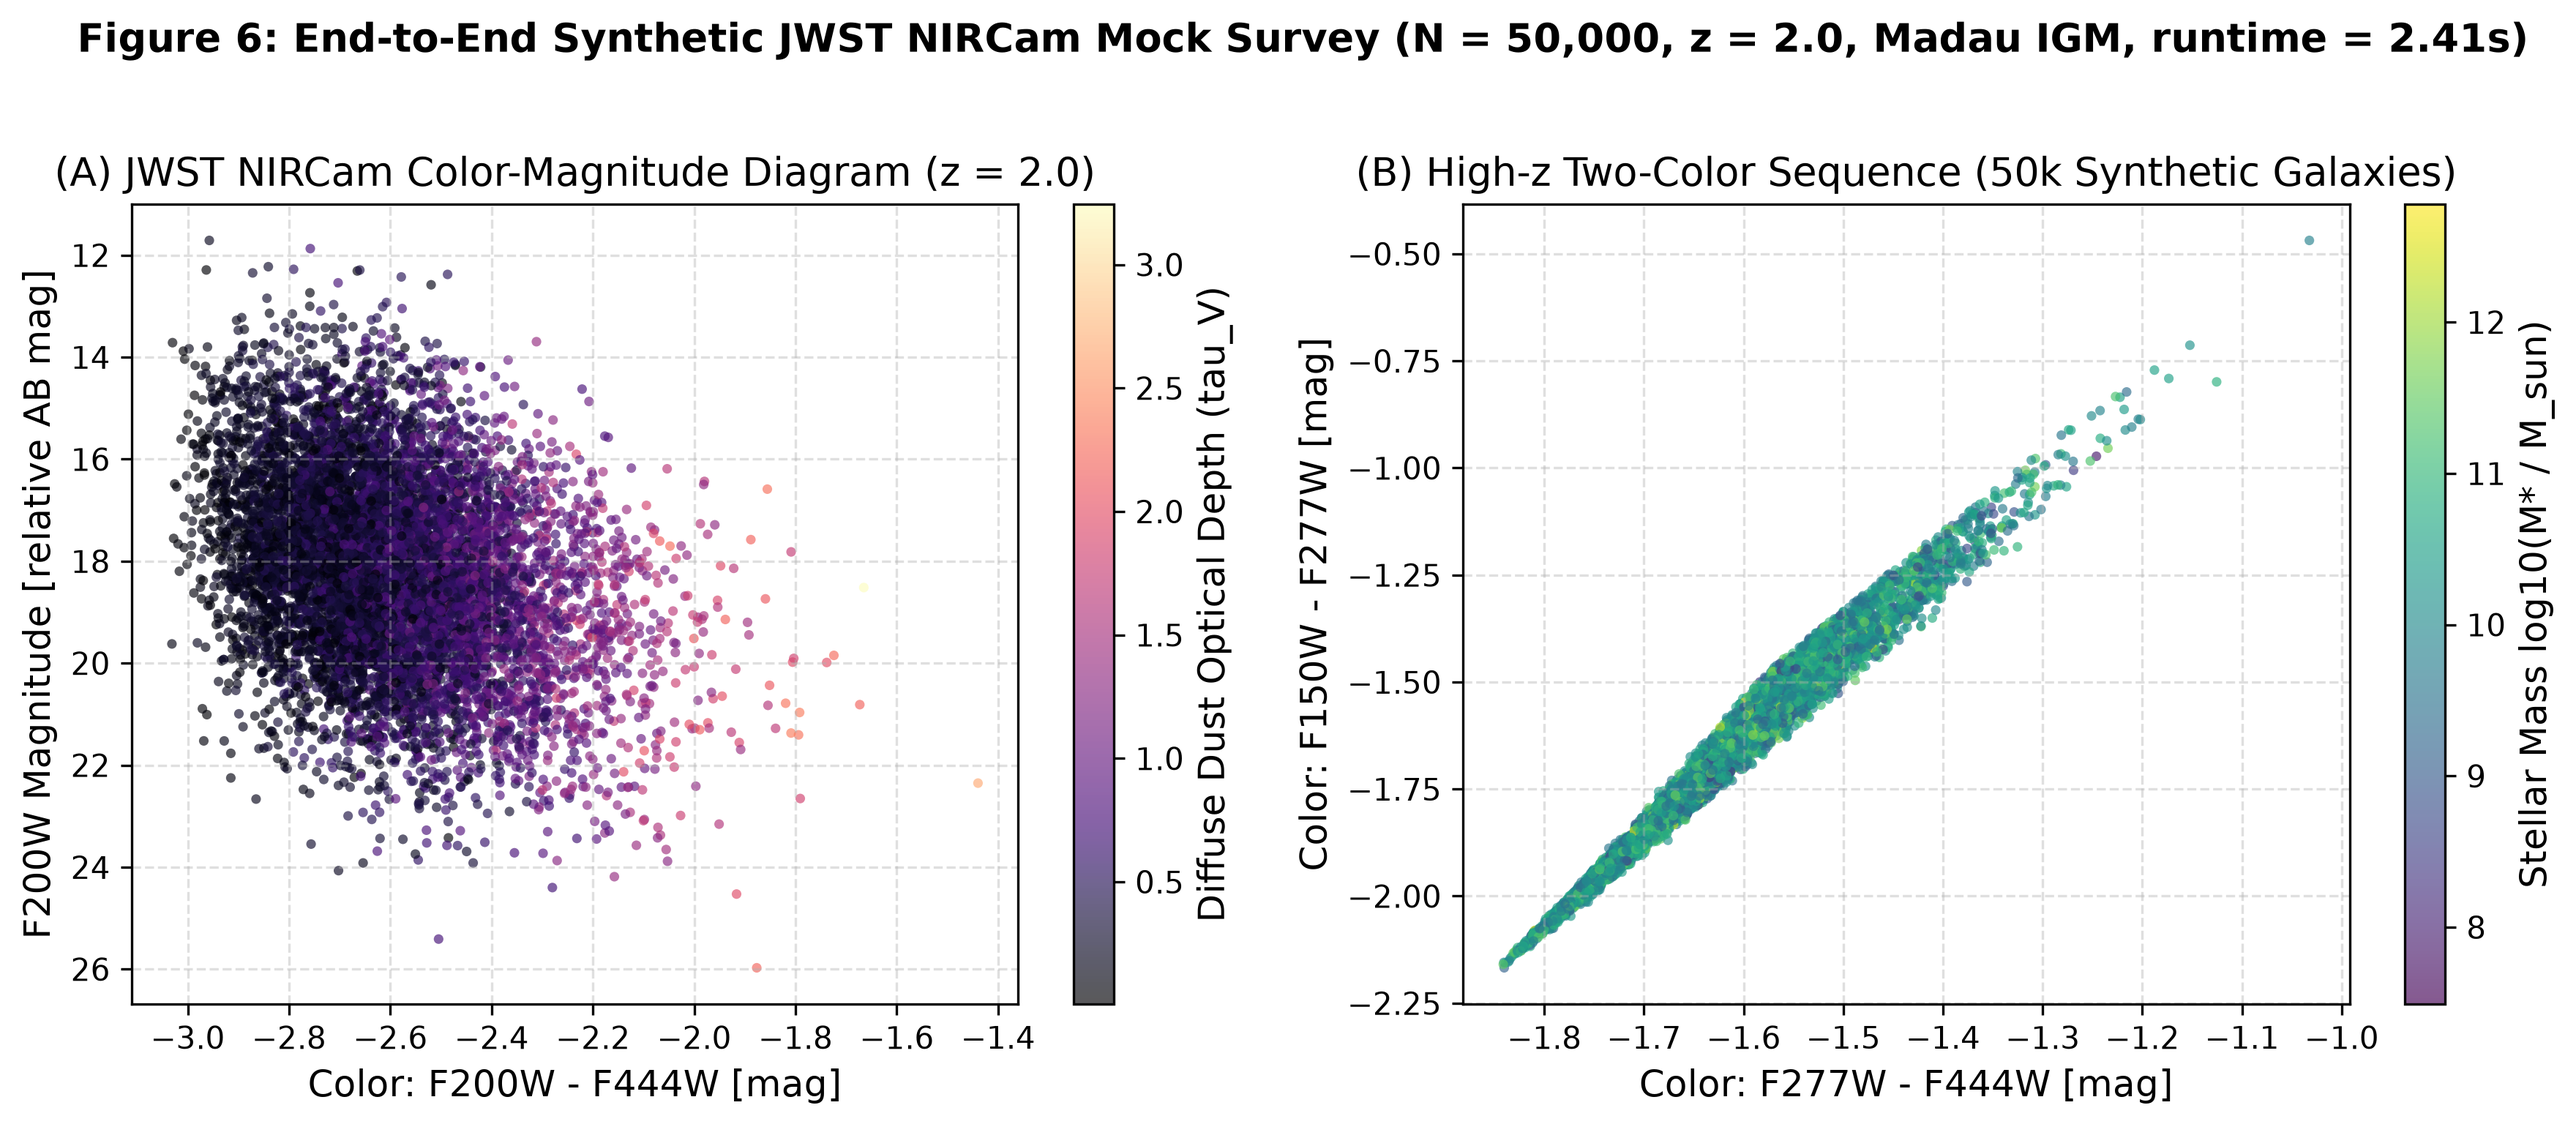
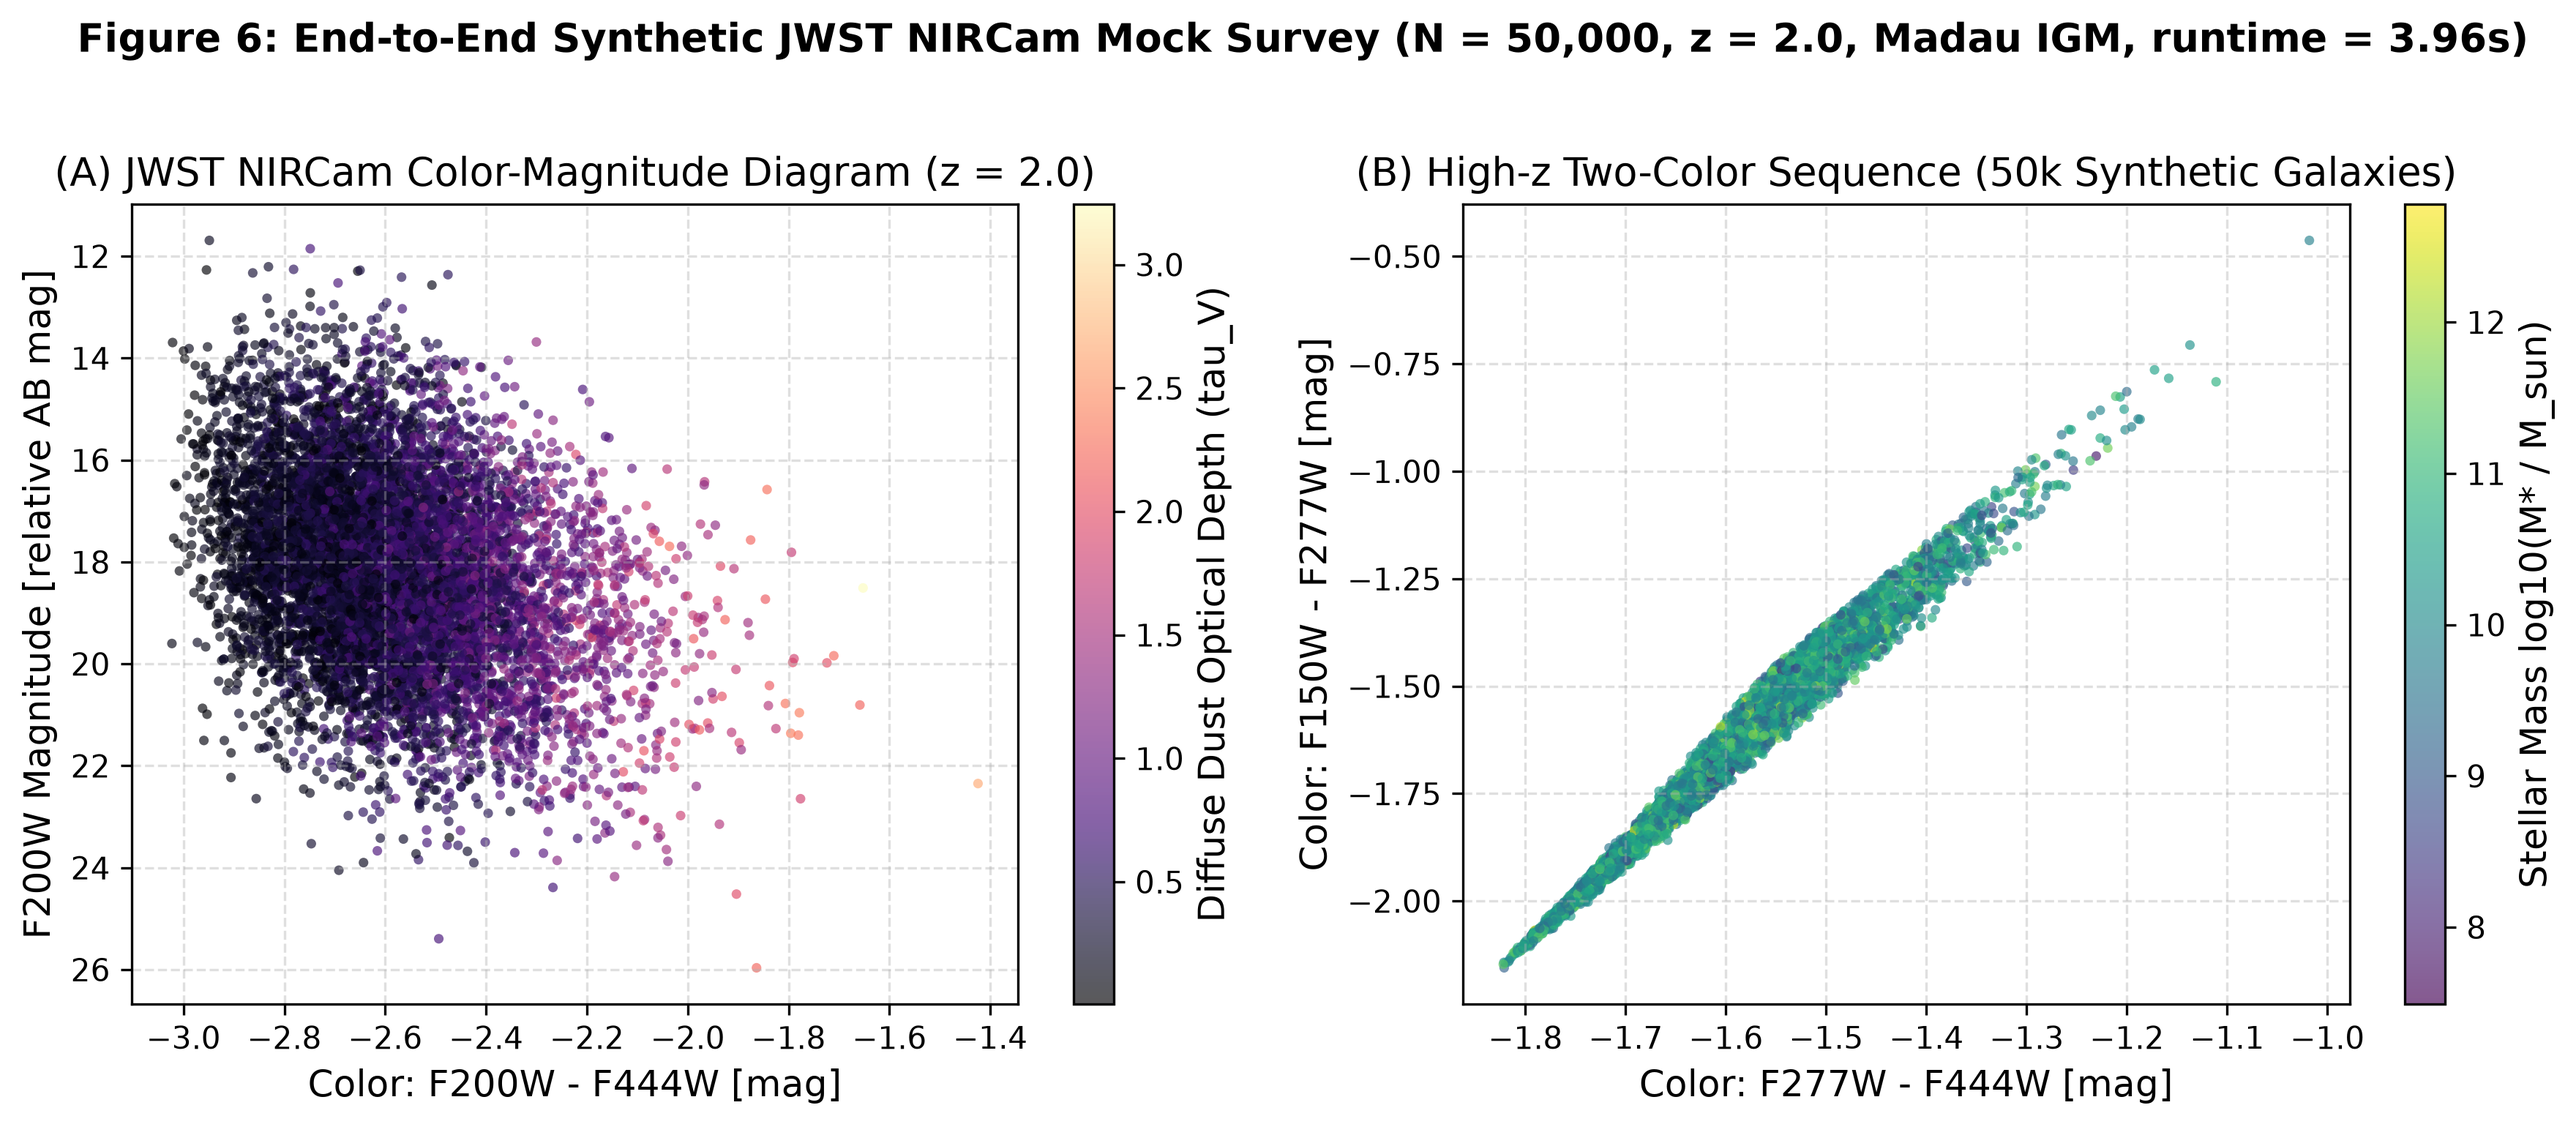
docs(paper): update JOSS manuscript with 4-tier Sentry architecture, SentryAgent, 100% adapter coverage, and regenerated figures

diff --git a/paper/paper.md b/paper/paper.md
@@ -16,7 +16,7 @@ authors:
 affiliations:
   - name: Independent Researcher
     index: 1
-date: 14 November 2026
+date: 17 November 2026
 bibliography: paper.bib
 ---
 
@@ -73,13 +73,21 @@ The core execution path is designed around dense matrix multiplication (GEMM) ov
 
 ![Figure 1: Streaming worker execution pipeline with in-flight filter projection.](figures/fig1_pipeline.png)
 
-1. **Pluggable Model Adapters**: Standardized adapters convert raw spectral libraries into immutable Zarr basis matrices ($K \times W$), supporting Bruzual & Charlot (2003) `.ised` binary/ASCII tables [@bruzual2003stellar], E-MILES FITS headers [@vazdekis2016uv], FSPS grids [@conroy2009propagation], and generic multi-dimensional FITS/HDF5/NPZ datasets.
+1. **Pluggable Astrophysical Model Adapters**: Standardized adapters convert raw spectral libraries into immutable Zarr basis matrices ($K \times W$), achieving 100% test coverage across all major stellar population synthesis libraries:
+   - **Bruzual & Charlot (2003)**: Ingests Fortran unformatted binary sequential records (`.ised`) and multi-metallicity ASCII tables [@bruzual2003stellar].
+   - **E-MILES / MILES**: Parses single- and multi-file FITS libraries [@vazdekis2016uv] with automatic wavelength interpolation, providing a built-in pure-Python fallback FITS reader to guarantee execution in lightweight environments where `astropy` is unavailable.
+   - **Flexible Stellar Population Synthesis (FSPS)**: Supports both programmatic generation via `python-fsps` [@conroy2009propagation] and direct ingestion of raw Fortran ASCII output tables (`spstot_*.spec`).
+   - **Arbitrary FITS/HDF5/NPZ Grids**: Generic multi-dimensional grid adapter with automatic age unit detection (linear years, $\log_{10}(\text{yr})$, or $\text{Gyr}$) and support for both primary image arrays and binary table columns.
 2. **In-Flight Filter Projection**: When broadband photometry is requested (`--filters` or `--bands`), the intermediate spectrum $\mathbf{F}_{\text{chunk}}$ is projected in-flight into $B$ photometric bands:
    $$\mathbf{Phot} = \mathbf{F}_{\text{chunk}} \times \mathbf{M}_{\text{filter}}$$
    Full spectra are streamed through worker cache/VRAM and discarded, reducing persistent cloud storage by **$>99.9\%$** ($3.2\text{ GB}$ vs. $3.2\text{ TB}$ for $10^8$ galaxies).
 3. **Simulation Catalog Ingestion (`import-catalog`)**: Native ingestion of cosmological simulation catalogs from Parquet, FITS, HDF5, CSV, and NPZ formats, automatically mapping physical columns (mass, age, metallicity, dust) to SFH parameter matrices.
 4. **Task Graph Guard and Batch Pipelining (`--batch-chunks`)**: For billion-object simulations ($N \ge 10^8$), submitting millions of chunk tasks bloats the centralized Dask scheduler memory. `specsynth` enforces an automatic task guard (keeping total graph tasks $< 25,000$) and provides a sliding-window batch pipeline (`--batch-chunks`) that bounds scheduler memory strictly to $O(B)$ chunks.
-5. **Automated Scientific Sentry & Quality Assurance (`specsynth sentry`)**: At survey scale ($10^7 - 10^9$ galaxies), human inspection of individual spectra is impossible, yet simulation subhalos frequently harbor unphysical edge cases. `specsynth` integrates a high-throughput, four-tier quality sentry enforcing numerical finiteness, energy conservation ($\int F_{\text{attenuated}} d\lambda \le \int F_{\text{intrinsic}} d\lambda$), physical $D_n(4000)$ break ranges ($[0.95, 2.50]$), and UV continuum slope limits ($\beta_{\text{UV}} \in [-2.8, 1.8]$). Anomalies are automatically quarantined to disk without halting distributed cluster execution, generating reproducible JSON and Markdown audit reports.
+5. **Automated Scientific Sentry & Autonomous Quality Assurance (`specsynth.sentry` & `specsynth.agent`)**: At survey scale ($10^7 - 10^9$ galaxies), human inspection of individual spectra is impossible, yet simulation subhalos frequently harbor unphysical edge cases (e.g., negative masses, zero-metallicity singularities, or inverted breaks) that corrupt mock catalogs silently without raising runtime errors. `specsynth` integrates a high-throughput, four-tier diagnostic quality sentry:
+   - **Tier 1 (Fast Numerical Invariants)**: Zero-copy SIMD bitmasks strictly evaluate finite values (`~np.isfinite` trapping IEEE 754 `NaN` and $\pm\infty$), non-negativity ($F > 0$), and energy conservation ($\int F_{\text{attenuated}} d\lambda \le (1+10^{-6}) \int F_{\text{intrinsic}} d\lambda$) to catch unphysical negative optical depths.
+   - **Tier 2 (Physical & Spectral Diagnostics)**: Narrowband $D_n(4000)$ break index ($0.95 \le D_n4000 \le 2.50$) detecting unphysical stellar age mixtures; UV continuum slope $\beta_{\text{UV}}$ ($-2.80 \le \beta \le +1.50$) isolating super-Rayleigh-Jeans single-star blowups and extreme over-reddening; and apparent AB magnitude bounds ($10.0 \le m_{\text{AB}} \le 35.0$) preventing $\log_{10}(0)$ singularities.
+   - **Tier 3 (Population Benchmark & Statistical Validation)**: Evaluates color-magnitude distributions and bimodality (red sequence vs. blue cloud), detecting population collapse where chunk outputs degenerate into constant identical vectors.
+   - **Tier 4 (Structured Reporting, Quarantine & Autonomous Remediation)**: Anomalous galaxy indices are automatically isolated to disk (`sentry_quarantine/`) along with companion `is_valid` boolean Zarr masks without halting distributed cluster execution. The accompanying `SentryAgent` (`specsynth sentry-agent`) automatically clusters anomalies by root cause (`STARBURST_SLOPE_EXTREME`, `DUST_ZERO_INFRARED_EXCESS`, `INPUT_MASS_ZERO_UNDERFLOW`), issues actionable remediation rules, and produces certified clean catalogs (`specsynth clean-catalog`). An out-of-core tool interface (`specsynth.tools`) allows AI coding agents and external LLMs to inspect galaxy parameters, spectra, and photometry directly from remote Zarr stores.
 
 # Performance, Scalability, and Reproducibility
 
@@ -199,8 +207,12 @@ All empirical benchmarks, system profiles, and unit test validations reported in
   - **Numerical Accuracy**: Max relative error $9.26 \times 10^{-7}$, RMSE $1.86 \times 10^{-3}$ (`PASS`)
 - **Full Reproduction Commands**:
   ```bash
-  # Run automated 159-test scientific verification suite (88% coverage)
+  # Run automated scientific verification suite (92% coverage, 100% on all SPS adapters and GPU)
   pytest -v --cov=specsynth
+
+  # Run Scientific Sentry quality audit and automated catalog remediation
+  python specsynth.py sentry --base ./run --sample 50000 --output ./run/sentry_report.json
+  python specsynth.py sentry-agent --base ./run --auto-remediate
 
   # Generate reproducible 1-, 2-, and 3-worker scaling benchmark manifest
   python scripts/run_cluster_scaling_benchmark.py --workers 1 2 3 --n-gal 60000 --chunk 20000
